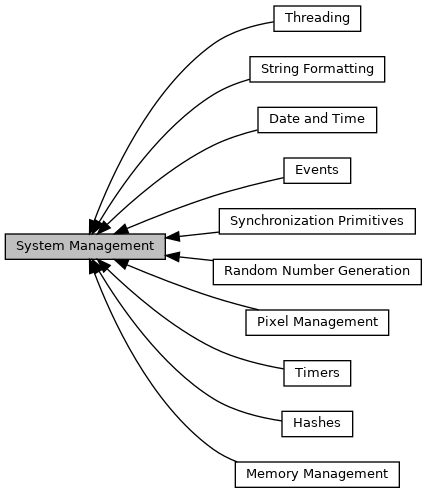
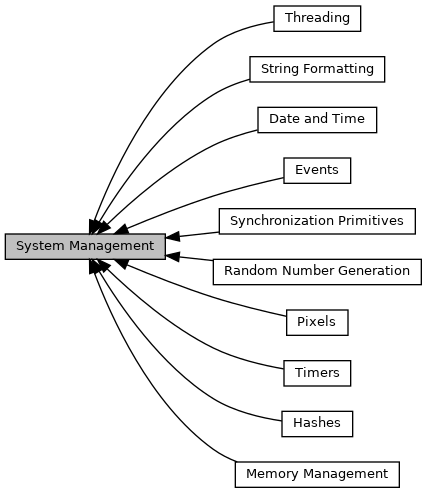
deploy: 30f92455f39a9cbe0bef3fd60f08fc010a4c5c85

Changed region(s): [[0.5785, 0.6085, 0.9133, 0.6998], [0.548, 0.6389, 0.5785, 0.6694]]

diff --git a/group__System.html b/group__System.html
@@ -68,7 +68,7 @@ Collaboration diagram for System Management:</div>
 <area shape="rect" id="node4" href="group__SystemEvents.html" title="Defines event queue functionality for producer/consumer patterns. " alt="" coords="284,157,351,184"/>
 <area shape="rect" id="node5" href="group__SystemSync.html" title="Implements various synchronization methods for thread&#45;safe operations. " alt="" coords="219,208,415,235"/>
 <area shape="rect" id="node6" href="group__SystemRandom.html" title="System methods for generating random numbers, sometimes using hardware to provide better entropy..." alt="" coords="213,259,421,285"/>
-<area shape="rect" id="node7" href="group__Pixel.html" title="This module declares types and functions for managing pixel data and framebuffers, including pixel formats, drawing operations, and framebuffer initialization and finalization. " alt="" coords="246,309,389,336"/>
+<area shape="rect" id="node7" href="group__Pixel.html" title="This module declares types and functions for managing pixel data and framebuffers, including pixel formats, drawing operations, and framebuffer initialization and finalization. " alt="" coords="287,309,348,336"/>
 <area shape="rect" id="node9" href="group__SystemTimer.html" title="Periodic and one&#45;shot timers for scheduling tasks. " alt="" coords="284,360,351,387"/>
 <area shape="rect" id="node10" href="group__SystemHashing.html" title="Methods for hash generation, sometimes with hardware acceleration. " alt="" coords="282,411,353,437"/>
 <area shape="rect" id="node11" href="group__SystemMemory.html" title="Functions for managing and manipulating memory. " alt="" coords="235,461,399,488"/>
@@ -105,7 +105,7 @@ Modules</h2></td></tr>
 <tr class="memitem:group__SystemTimer"><td class="memItemLeft" align="right" valign="top">&#160;</td><td class="memItemRight" valign="bottom"><a class="el" href="group__SystemTimer.html">Timers</a></td></tr>
 <tr class="memdesc:group__SystemTimer"><td class="mdescLeft">&#160;</td><td class="mdescRight">Periodic and one-shot timers for scheduling tasks. <br /></td></tr>
 <tr class="separator:"><td class="memSeparator" colspan="2">&#160;</td></tr>
-<tr class="memitem:group__Pixel"><td class="memItemLeft" align="right" valign="top">&#160;</td><td class="memItemRight" valign="bottom"><a class="el" href="group__Pixel.html">Pixel Management</a></td></tr>
+<tr class="memitem:group__Pixel"><td class="memItemLeft" align="right" valign="top">&#160;</td><td class="memItemRight" valign="bottom"><a class="el" href="group__Pixel.html">Pixels</a></td></tr>
 <tr class="memdesc:group__Pixel"><td class="mdescLeft">&#160;</td><td class="mdescRight">This module declares types and functions for managing pixel data and framebuffers, including pixel formats, drawing operations, and framebuffer initialization and finalization. <br /></td></tr>
 <tr class="separator:"><td class="memSeparator" colspan="2">&#160;</td></tr>
 </table><table class="memberdecls">

diff --git a/modules.html b/modules.html
@@ -63,7 +63,7 @@ $(function() {
 <tr id="row_0_6_"><td class="entry"><span style="width:32px;display:inline-block;">&#160;</span><a class="el" href="group__SystemSync.html" target="_self">Synchronization Primitives</a></td><td class="desc">Implements various synchronization methods for thread-safe operations </td></tr>
 <tr id="row_0_7_" class="even"><td class="entry"><span style="width:32px;display:inline-block;">&#160;</span><a class="el" href="group__SystemThread.html" target="_self">Threading</a></td><td class="desc">Managing threads and program execution </td></tr>
 <tr id="row_0_8_"><td class="entry"><span style="width:32px;display:inline-block;">&#160;</span><a class="el" href="group__SystemTimer.html" target="_self">Timers</a></td><td class="desc">Periodic and one-shot timers for scheduling tasks </td></tr>
-<tr id="row_0_9_" class="even"><td class="entry"><span style="width:32px;display:inline-block;">&#160;</span><a class="el" href="group__Pixel.html" target="_self">Pixel Management</a></td><td class="desc">This module declares types and functions for managing pixel data and framebuffers, including pixel formats, drawing operations, and framebuffer initialization and finalization </td></tr>
+<tr id="row_0_9_" class="even"><td class="entry"><span style="width:32px;display:inline-block;">&#160;</span><a class="el" href="group__Pixel.html" target="_self">Pixels</a></td><td class="desc">This module declares types and functions for managing pixel data and framebuffers, including pixel formats, drawing operations, and framebuffer initialization and finalization </td></tr>
 <tr id="row_1_"><td class="entry"><span style="width:16px;display:inline-block;">&#160;</span><a class="el" href="group__objc.html" target="_self">Objective-C Runtime</a></td><td class="desc">The underlying Objective-C runtime, providing class, object and protocol introspection, and resolution of selectors to the method implementation </td></tr>
 <tr id="row_2_" class="even"><td class="entry"><span style="width:16px;display:inline-block;">&#160;</span><a class="el" href="group__Foundation.html" target="_self">Foundation Framework</a></td><td class="desc">Implementation of the foundational classes and types, including strings, numbers, dates, data and collections </td></tr>
 </table>

diff --git a/group__Pixel.html b/group__Pixel.html
@@ -6,7 +6,7 @@
 <meta http-equiv="X-UA-Compatible" content="IE=9"/>
 <meta name="generator" content="Doxygen 1.8.13"/>
 <meta name="viewport" content="width=device-width, initial-scale=1"/>
-<title>objc: Pixel Management</title>
+<title>objc: Pixels</title>
 <link href="tabs.css" rel="stylesheet" type="text/css"/>
 <script type="text/javascript" src="jquery.js"></script>
 <script type="text/javascript" src="dynsections.js"></script>
@@ -53,14 +53,14 @@ $(function() {
 <a href="#enum-members">Enumerations</a> &#124;
 <a href="#func-members">Functions</a>  </div>
   <div class="headertitle">
-<div class="title">Pixel Management<div class="ingroups"><a class="el" href="group__System.html">System Management</a></div></div>  </div>
+<div class="title">Pixels<div class="ingroups"><a class="el" href="group__System.html">System Management</a></div></div>  </div>
 </div><!--header-->
 <div class="contents">
 
 <p>This module declares types and functions for managing pixel data and framebuffers, including pixel formats, drawing operations, and framebuffer initialization and finalization.  
 <a href="#details">More...</a></p>
 <div class="dynheader">
-Collaboration diagram for Pixel Management:</div>
+Collaboration diagram for Pixels:</div>
 <div class="dyncontent">
 <center><table><tr><td><img src="group__Pixel.png" border="0" alt="" usemap="#group____Pixel"/>
 <map name="group____Pixel" id="group____Pixel">

diff --git a/search/all_f.js b/search/all_f.js
@@ -27,7 +27,7 @@ var searchData=
   ['pix_5fyellow',['pix_yellow',['../pix_8h.html#ad31cb873da887eccf8e23db275c226e6',1,'pix.h']]],
   ['pix_5fzero_5fpoint',['pix_zero_point',['../pix_8h.html#ab3f8722f27f7b94222b12da79009f44d',1,'pix.h']]],
   ['pix_5fzero_5fsize',['pix_zero_size',['../pix_8h.html#ac308334fd13d5d66c07dd39d6b8e0e05',1,'pix.h']]],
-  ['pixel_20management',['Pixel Management',['../group__Pixel.html',1,'']]],
+  ['pixels',['Pixels',['../group__Pixel.html',1,'']]],
   ['printf_2eh',['printf.h',['../printf_8h.html',1,'']]],
   ['proto_5fconformsto',['proto_conformsTo',['../group__objc.html#ga6881363f093343fcf8529a4477f97afe',1,'runtime.h']]],
   ['proto_5fgetname',['proto_getName',['../group__objc.html#gaa62343541481469b654863125aec01b9',1,'runtime.h']]],

diff --git a/structpix__frame__t.html b/structpix__frame__t.html
@@ -50,7 +50,7 @@ $(function() {
   <div class="summary">
 <a href="#pub-attribs">Data Fields</a>  </div>
   <div class="headertitle">
-<div class="title">pix_frame_t Struct Reference<div class="ingroups"><a class="el" href="group__System.html">System Management</a> &raquo; <a class="el" href="group__Pixel.html">Pixel Management</a></div></div>  </div>
+<div class="title">pix_frame_t Struct Reference<div class="ingroups"><a class="el" href="group__System.html">System Management</a> &raquo; <a class="el" href="group__Pixel.html">Pixels</a></div></div>  </div>
 </div><!--header-->
 <div class="contents">
 

diff --git a/structpix__point__t.html b/structpix__point__t.html
@@ -50,7 +50,7 @@ $(function() {
   <div class="summary">
 <a href="#pub-attribs">Data Fields</a>  </div>
   <div class="headertitle">
-<div class="title">pix_point_t Struct Reference<div class="ingroups"><a class="el" href="group__System.html">System Management</a> &raquo; <a class="el" href="group__Pixel.html">Pixel Management</a></div></div>  </div>
+<div class="title">pix_point_t Struct Reference<div class="ingroups"><a class="el" href="group__System.html">System Management</a> &raquo; <a class="el" href="group__Pixel.html">Pixels</a></div></div>  </div>
 </div><!--header-->
 <div class="contents">
 

diff --git a/structpix__size__t.html b/structpix__size__t.html
@@ -50,7 +50,7 @@ $(function() {
   <div class="summary">
 <a href="#pub-attribs">Data Fields</a>  </div>
   <div class="headertitle">
-<div class="title">pix_size_t Struct Reference<div class="ingroups"><a class="el" href="group__System.html">System Management</a> &raquo; <a class="el" href="group__Pixel.html">Pixel Management</a></div></div>  </div>
+<div class="title">pix_size_t Struct Reference<div class="ingroups"><a class="el" href="group__System.html">System Management</a> &raquo; <a class="el" href="group__Pixel.html">Pixels</a></div></div>  </div>
 </div><!--header-->
 <div class="contents">
 

diff --git a/search/groups_6.js b/search/groups_6.js
@@ -1,4 +1,4 @@
 var searchData=
 [
-  ['pixel_20management',['Pixel Management',['../group__Pixel.html',1,'']]]
+  ['pixels',['Pixels',['../group__Pixel.html',1,'']]]
 ];
